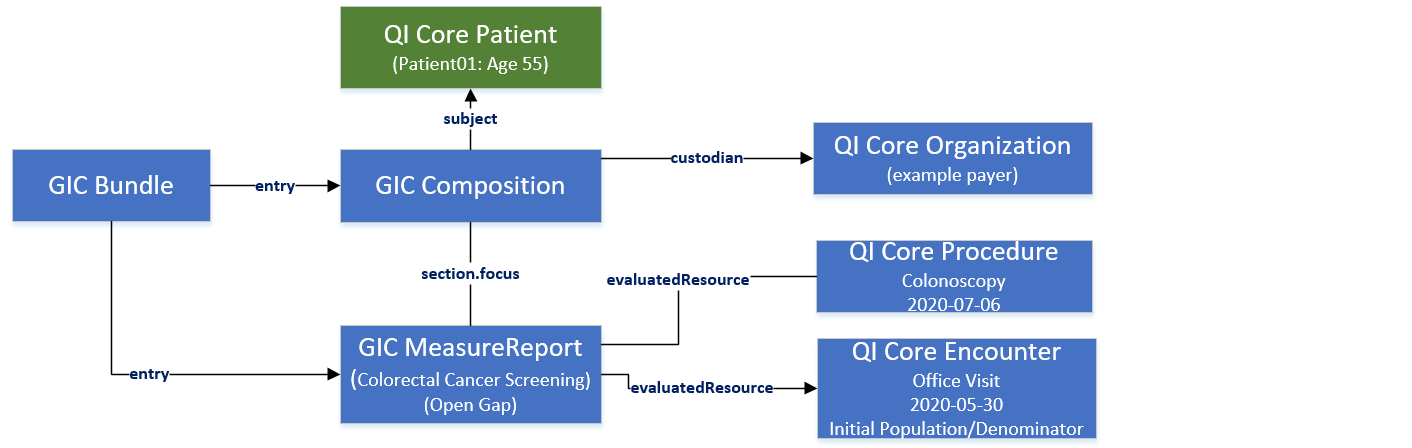
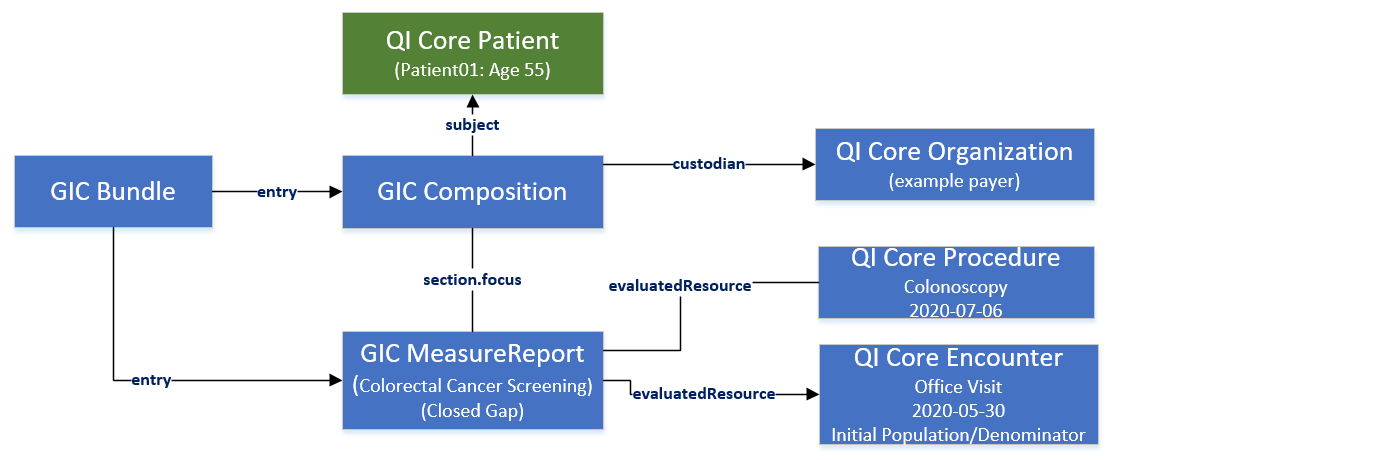
updated diagrams for 3-24 3-25 3-26. Added OR to care-gaps operation description. Added ballot note for continuous variable measure example for prospective.

diff --git a/input/pagecontent/OperationDefinition-care-gaps-intro.md b/input/pagecontent/OperationDefinition-care-gaps-intro.md
@@ -11,8 +11,8 @@ This is the new $care-gaps operation. The intent is to replace the existing #car
 Conformance Requirement 1:
 <br>
 A $care-gaps operation SHALL provide at least periodStart, periodStop, and subject|provider|organization, which could be one of the following:
-  - A $care-gaps operation SHALL provide periodStart, periodStop, and a subject
-  - A $care-gaps operation SHALL provide periodStart, periodStop, and an organization
+  - A $care-gaps operation SHALL provide periodStart, periodStop, and a subject; OR
+  - A $care-gaps operation SHALL provide periodStart, periodStop, and an organization; OR
   - A $care-gaps operation SHALL provide periodStart, periodStop, and a provider and an organization
 </div>
 
